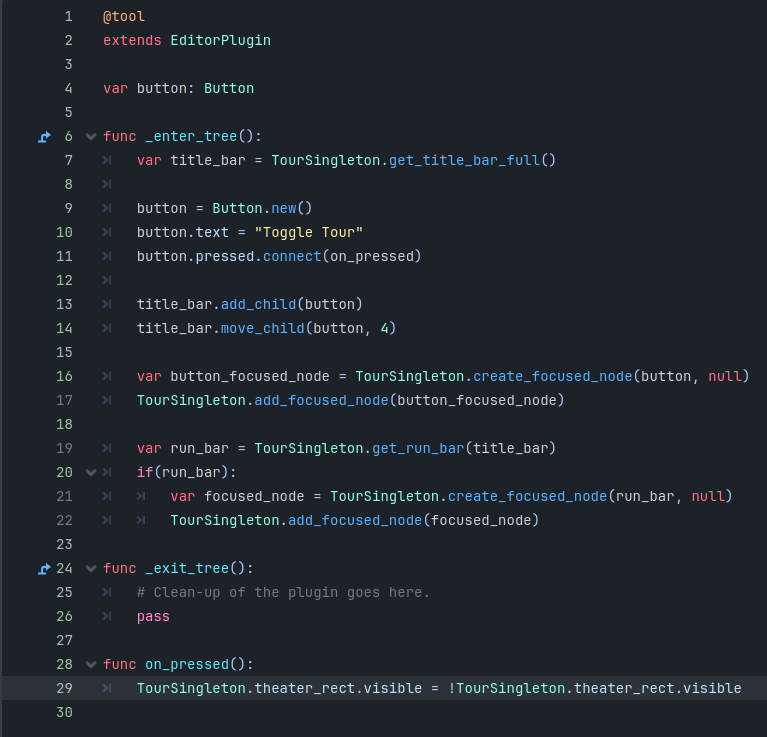
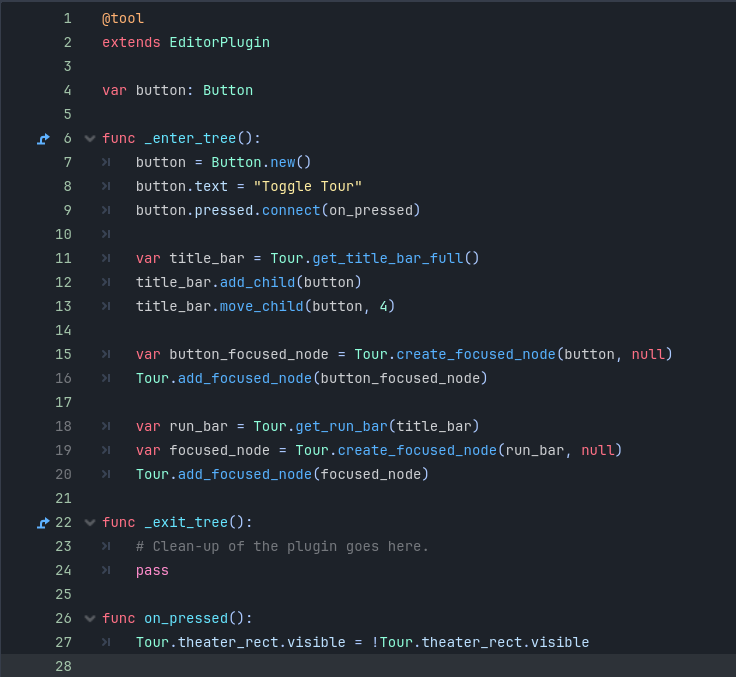
Rename singleton + comments + update README.

diff --git a/rust/src/classes/tour_singleton.rs b/rust/src/classes/tour_singleton.rs
@@ -6,8 +6,9 @@ use super::focused_node::FocusedNode;
 use super::theater_rect::TheaterRect;
 use super::tour_plugin::TourPlugin;
 
+/// Singleton for controlling the an editor tour.
 #[derive(GodotClass)]
-#[class(base=Object)]
+#[class(base=Object, rename=Tour)]
 pub struct TourSingleton {
     base: Base<Object>,
     #[var]
@@ -51,6 +52,7 @@ impl TourSingleton {
         None
     }
 
+    /// Helper function for creating a focused node resource.
     #[func]
     fn create_focused_node(target: Option<Gd<Control>>, overlay: Option<Gd<Panel>>) -> Gd<FocusedNode> {
         let mut focused_node = FocusedNode::new_gd();
@@ -63,12 +65,14 @@ impl TourSingleton {
         focused_node
     }
 
+    /// Helper function for adding a focused node to the theater_rect.
     #[func]
     fn add_focused_node(&mut self, focused_node: Gd<FocusedNode>) {
         let mut focused_nodes = self.theater_rect.bind().get_focused_nodes();
         focused_nodes.push(Some(focused_node));
     }
 
+    /// Helper function for removing a focused node from the theater_rect.
     #[func]
     fn remove_focused_node(&mut self, focused_node: Gd<FocusedNode>) {
         let mut focused_nodes = self.theater_rect.bind().get_focused_nodes();
@@ -76,12 +80,14 @@ impl TourSingleton {
         focused_nodes.erase(&value);
     }
 
+    /// Helper function for removing all focused nodes from the theater_rect.
     #[func]
     fn clear_focused_nodes(&mut self) {
         let mut focused_nodes = self.theater_rect.bind().get_focused_nodes();
         focused_nodes.clear();
     }
 
+    /// Get base control of editor window.
     #[func]
     pub fn get_base_control(&self) -> Option<Gd<Control>> {
         if let Some(mut tour_plugin) = self.tour_plugin.clone() {
@@ -90,6 +96,7 @@ impl TourSingleton {
         None
     }
 
+    /// Get title bar control of editor window.
     #[func]
     pub fn get_title_bar(&self, base_control: Gd<Control>) -> Option<Gd<Control>> {
         if let Some(mut tour_plugin) = self.tour_plugin.clone() {
@@ -98,6 +105,7 @@ impl TourSingleton {
         None
     }
 
+    /// Get title bar control of editor window.
     #[func]
     pub fn get_title_bar_full(&self) -> Option<Gd<Control>> {
         if let Some(mut tour_plugin) = self.tour_plugin.clone() {
@@ -106,22 +114,7 @@ impl TourSingleton {
         None
     }
 
-    #[func]
-    pub fn get_main(&self, base_control: Gd<Control>) -> Option<Gd<Control>> {
-        if let Some(mut tour_plugin) = self.tour_plugin.clone() {
-            return tour_plugin.bind_mut().get_main(base_control);
-        }
-        None
-    }
-
-    #[func]
-    pub fn get_main_full(&self) -> Option<Gd<Control>> {
-        if let Some(mut tour_plugin) = self.tour_plugin.clone() {
-            return tour_plugin.bind_mut().get_main_full();
-        }
-        None
-    }
-
+    /// Get run bar control in title bar.
     #[func]
     pub fn get_run_bar(&self, title_bar: Gd<Control>) -> Option<Gd<Control>> {
         if let Some(nodes) = TourSingleton::find_children(title_bar.upcast::<Node>(), "*EditorRunBar*", "EditorRunBar", false, false) {
@@ -134,6 +127,7 @@ impl TourSingleton {
         None
     }
 
+    /// Get run bar control in title bar.
     #[func]
     pub fn get_run_bar_full(&self) -> Option<Gd<Control>> {
         if let Some(title_bar) = self.get_title_bar_full() {
@@ -144,6 +138,24 @@ impl TourSingleton {
                     }
                 }
             }
+        }
+        None
+    }
+    
+    /// Get main control of editor window. This control holds everything below the title bar.
+    #[func]
+    pub fn get_main(&self, base_control: Gd<Control>) -> Option<Gd<Control>> {
+        if let Some(mut tour_plugin) = self.tour_plugin.clone() {
+            return tour_plugin.bind_mut().get_main(base_control);
+        }
+        None
+    }
+
+    /// Get main control of editor window. This control holds everything below the title bar.
+    #[func]
+    pub fn get_main_full(&self) -> Option<Gd<Control>> {
+        if let Some(mut tour_plugin) = self.tour_plugin.clone() {
+            return tour_plugin.bind_mut().get_main_full();
         }
         None
     }

diff --git a/rust/src/lib.rs b/rust/src/lib.rs
@@ -15,7 +15,7 @@ unsafe impl ExtensionLibrary for GodotTour {
             // The StringName identifies your singleton and can be
             // used later to access it.
             Engine::singleton().register_singleton(
-                StringName::from("TourSingleton"),
+                StringName::from("Tour"),
                 TourSingleton::new_alloc().upcast::<Object>(),
             );
         }
@@ -25,7 +25,7 @@ unsafe impl ExtensionLibrary for GodotTour {
         if level == InitLevel::Scene {
             // Get the `Engine` instance and `StringName` for your singleton.
             let mut engine = Engine::singleton();
-            let singleton_name = StringName::from("TourSingleton");
+            let singleton_name = StringName::from("Tour");
 
             // We need to retrieve the pointer to the singleton object,
             // as it has to be freed manually - unregistering singleton 

diff --git a/rust/src/classes/tour_plugin.rs b/rust/src/classes/tour_plugin.rs
@@ -25,7 +25,7 @@ impl IEditorPlugin for TourPlugin {
 #[godot_api]
 impl TourPlugin {
     fn get_tour_singleton() -> Gd<TourSingleton> {
-        godot::classes::Engine::singleton().get_singleton(StringName::from("TourSingleton")).unwrap().cast::<TourSingleton>()
+        godot::classes::Engine::singleton().get_singleton(StringName::from("Tour")).unwrap().cast::<TourSingleton>()
     }
 
     pub fn get_base_control(&mut self) -> Option<Gd<Control>> {

diff --git a/README.md b/README.md
@@ -22,7 +22,7 @@ Provides functionality to implement things like UI tours in the Editor & In-Game
 <img src="docs/images/PopupContainer2.png" width="405px">
 
 ## Singletons
-### `TourSingleton`
+### `Tour`
 - Adds ability to script editor tours.
 - Provides utilities for interacting with the editor UI.
 
